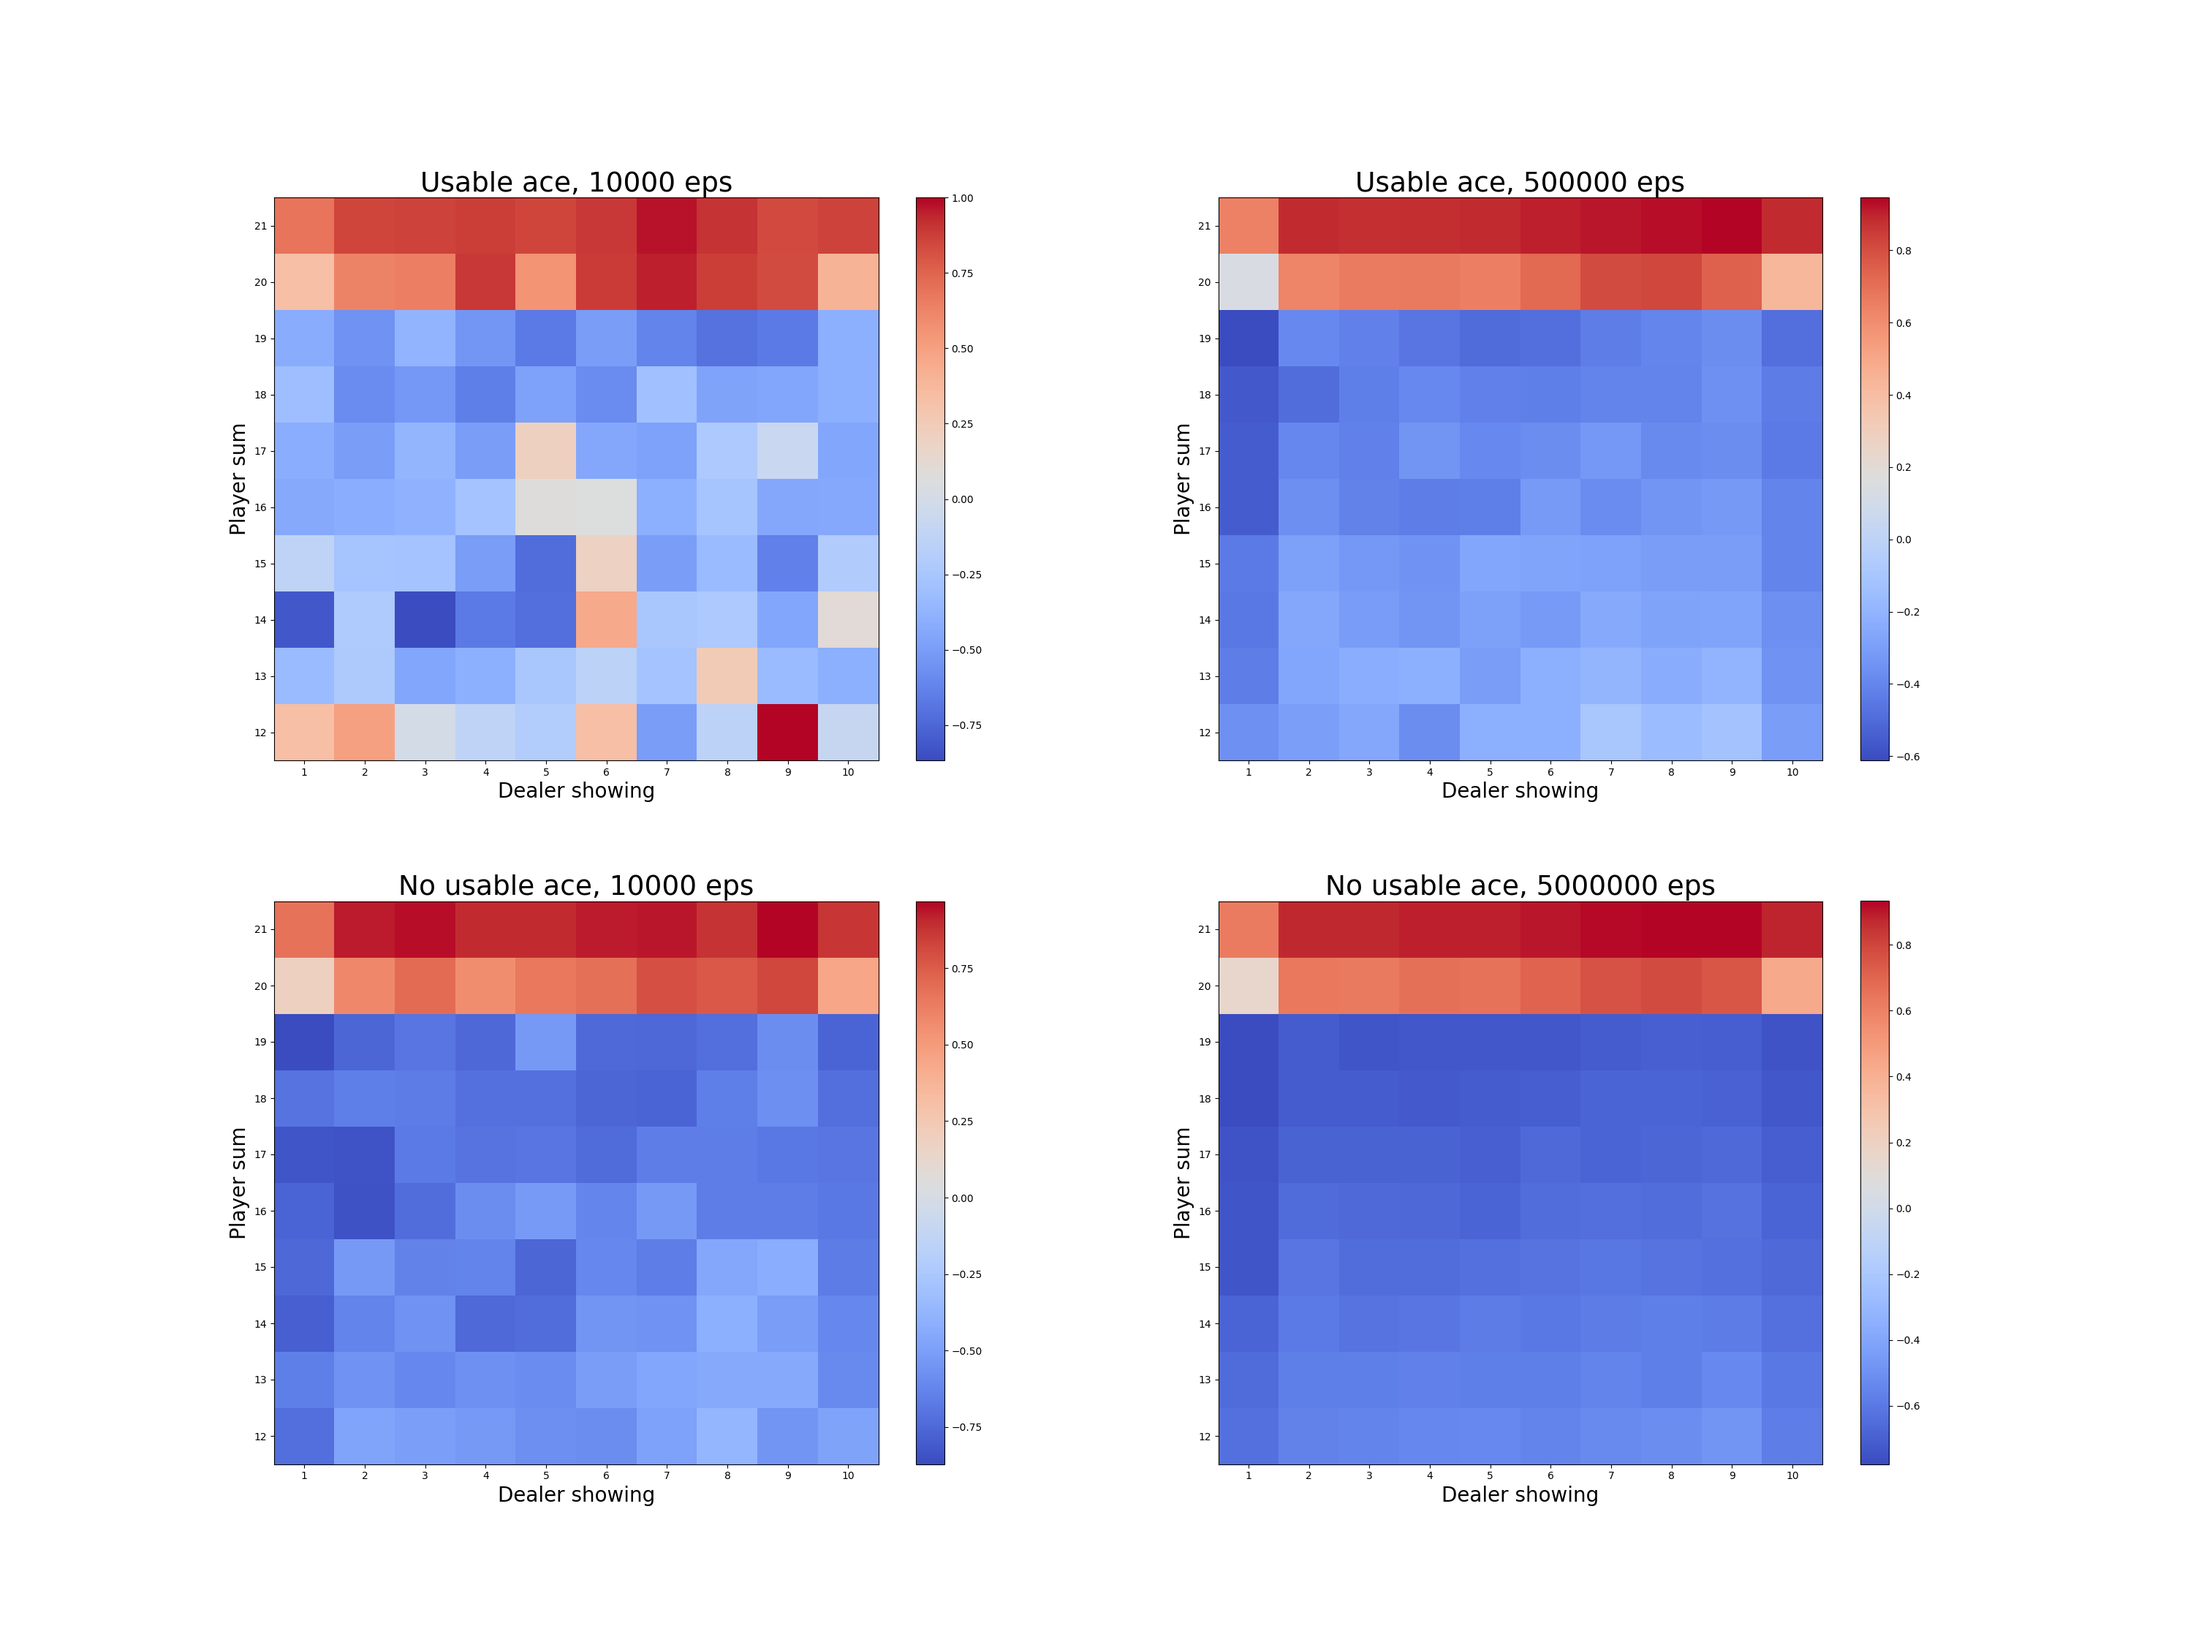
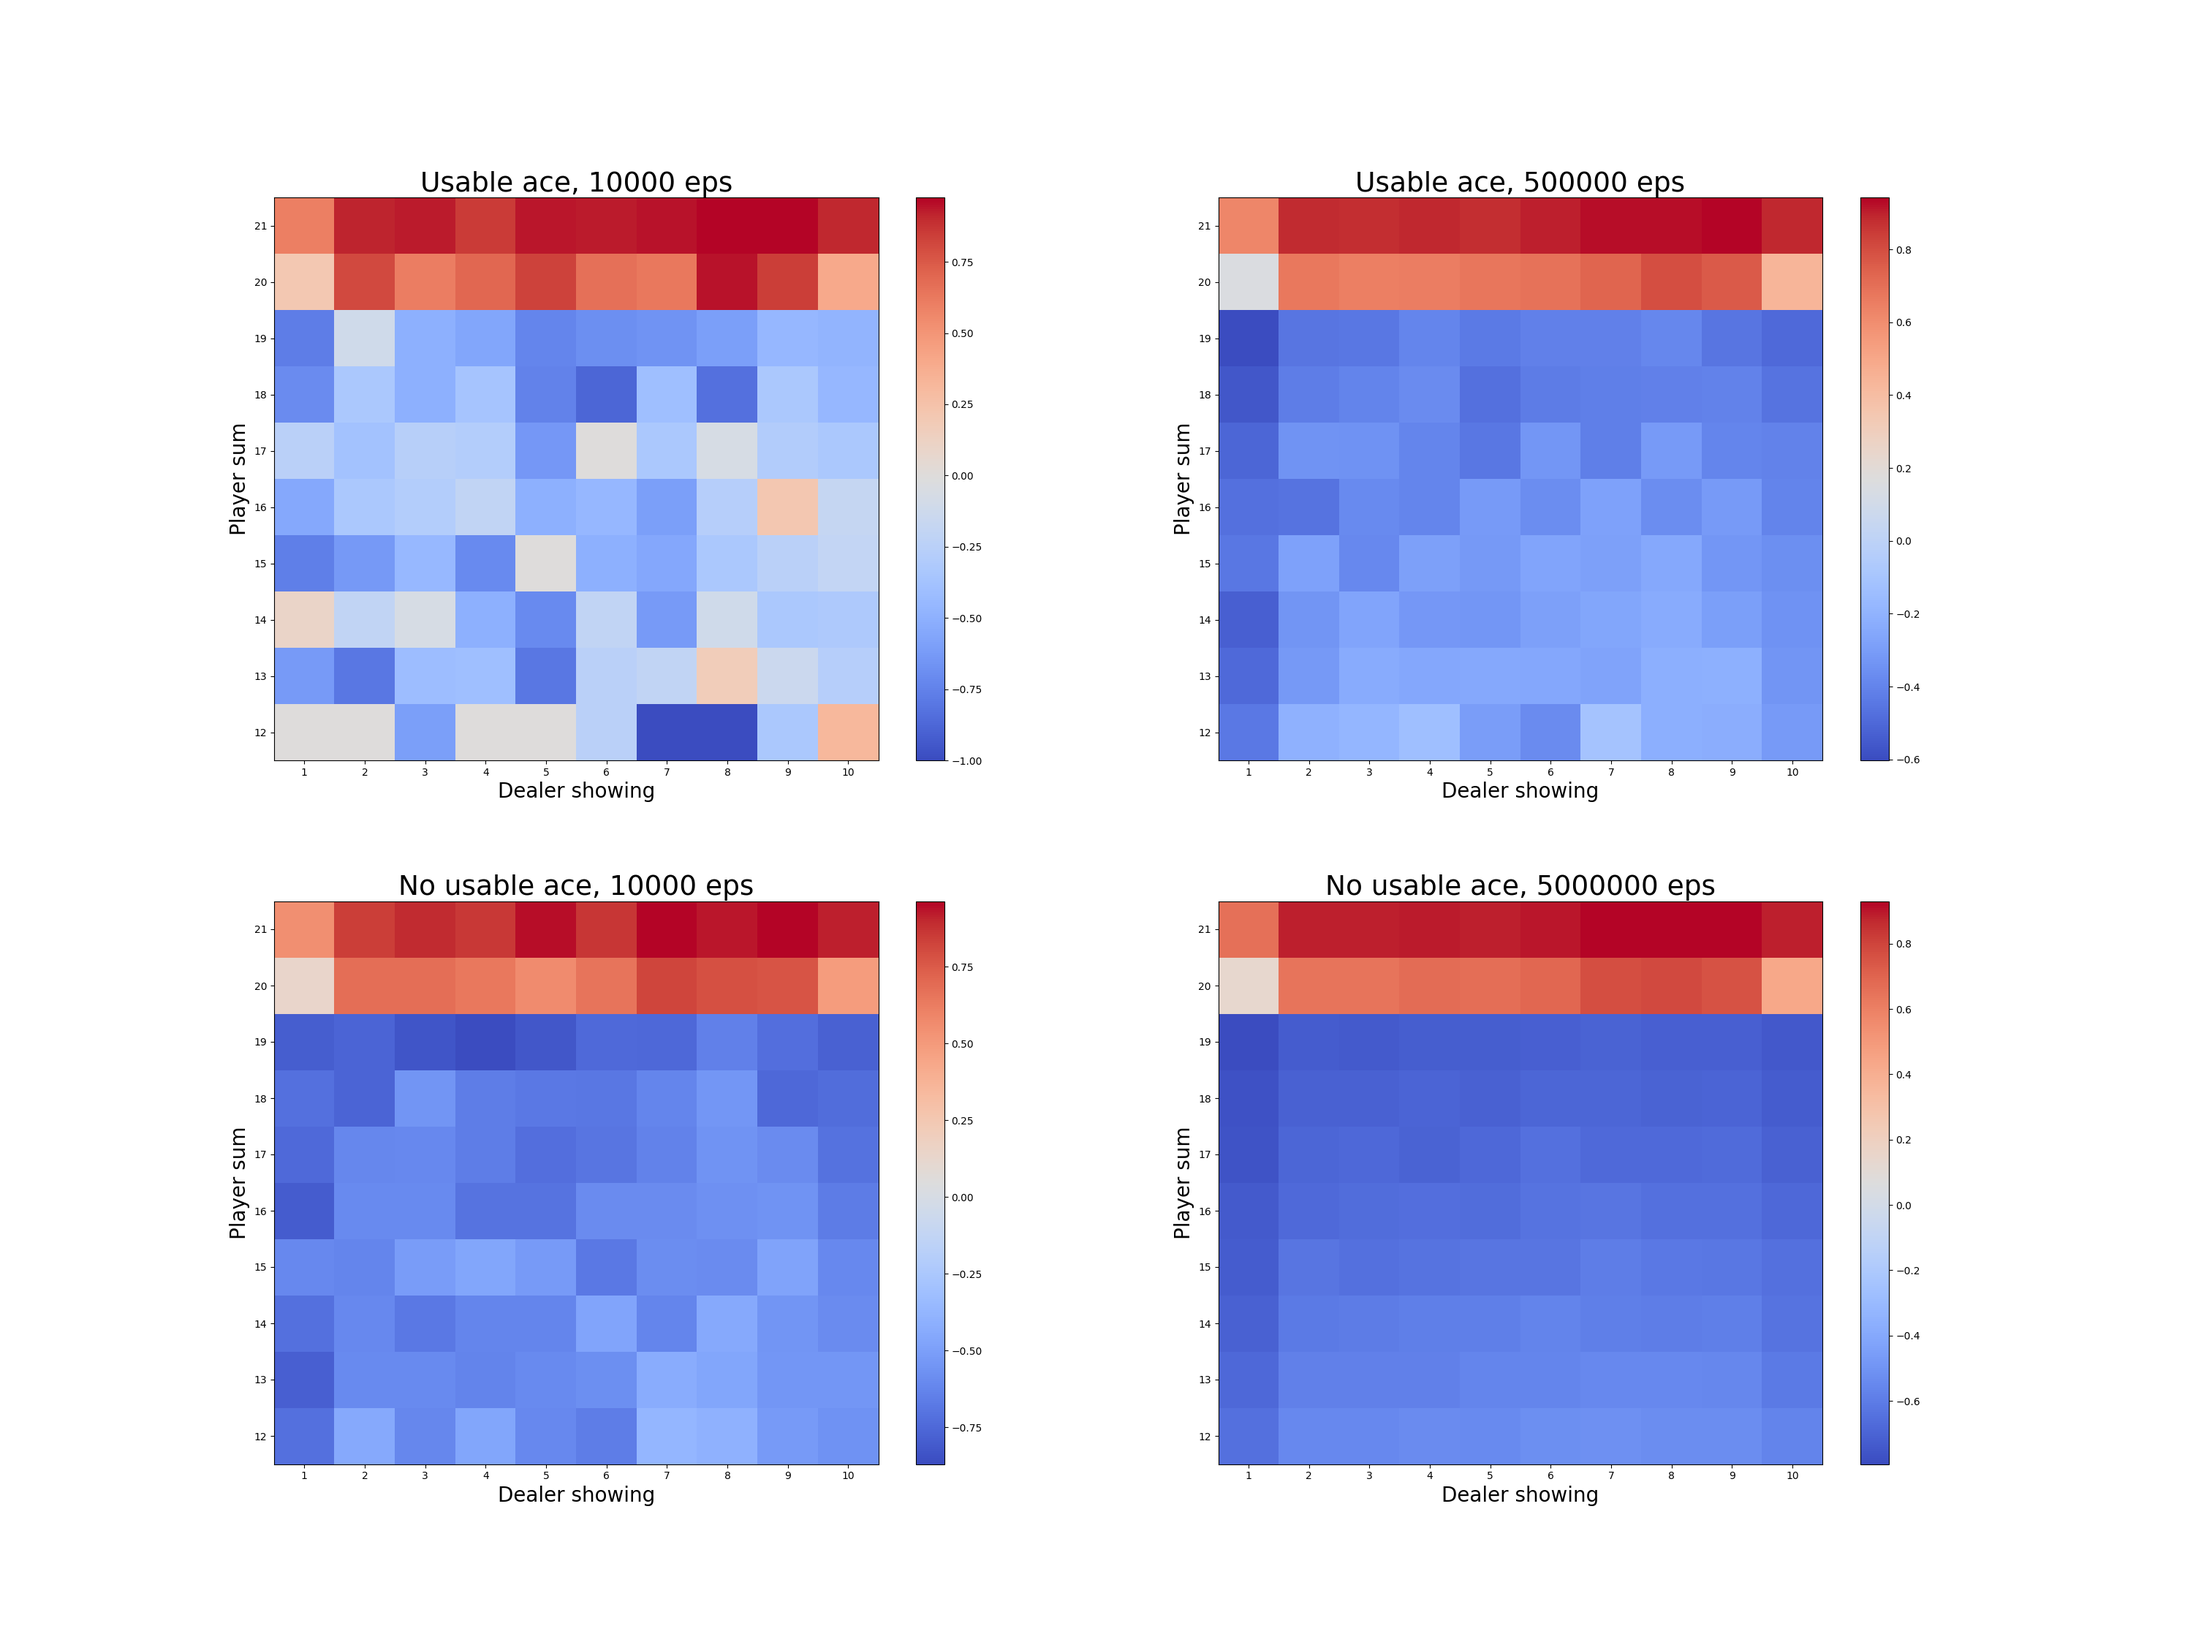
update blackjack.py

diff --git a/chapter-5/blackjack.py b/chapter-5/blackjack.py
@@ -7,8 +7,8 @@ from tqdm import tqdm
 
 
 rewards = {'win': 1, 'draw': 0, 'lose': -1}
-actions = {'hits': 1, 'sticks': 0}
-# np.random.seed(13)
+actions = {'hits': 0, 'sticks': 1}
+np.random.seed(27)
 
 
 def get_card():
@@ -114,13 +114,10 @@ def play(player_policy, initial_state=None, initial_action=None):
     # compare the final sum between player and dealer (happens when both sum <= 21)
     state = [player_sum, player_usable_card, dealer_showed_card]
     if player_sum > dealer_sum:
-        game_trajectory.append((state, action))
         return (game_trajectory, rewards['win'])
     elif player_sum == dealer_sum:
-        game_trajectory.append((state, action))
         return (game_trajectory, rewards['draw'])
     else:
-        game_trajectory.append((state, action))
         return (game_trajectory, rewards['lose'])
 
 
@@ -206,8 +203,7 @@ def monte_carlo_ES(episodes):
         values = state_action_values[player_sum, player_usable_card, dealer_showed_card, :] /\
                     np.where(state_action_pair_count[player_sum, player_usable_card, dealer_showed_card, :] == 0,
                         state_action_pair_count[player_sum, player_usable_card, dealer_showed_card, :], 1)
-        # return np.random.choice(np.argwhere(values == np.amax(values)).flatten().tolist())
-        return np.random.choice([action_ for action_, value_ in enumerate(values) if value_ == np.max(values)])
+        return np.random.choice(np.argwhere(values == np.amax(values)).flatten().tolist())
 
     for eps in tqdm(range(episodes)):
         initial_state = [np.random.choice(range(12, 22)), np.random.choice([True, False]), np.random.choice(range(1, 11))]
@@ -307,6 +303,6 @@ def monte_carlo_ES_plot():
 
 
 if __name__ == '__main__':
-    # first_visit_MC_plot()
-    monte_carlo_ES_plot()
+    first_visit_MC_plot()
+    # monte_carlo_ES_plot()
 
